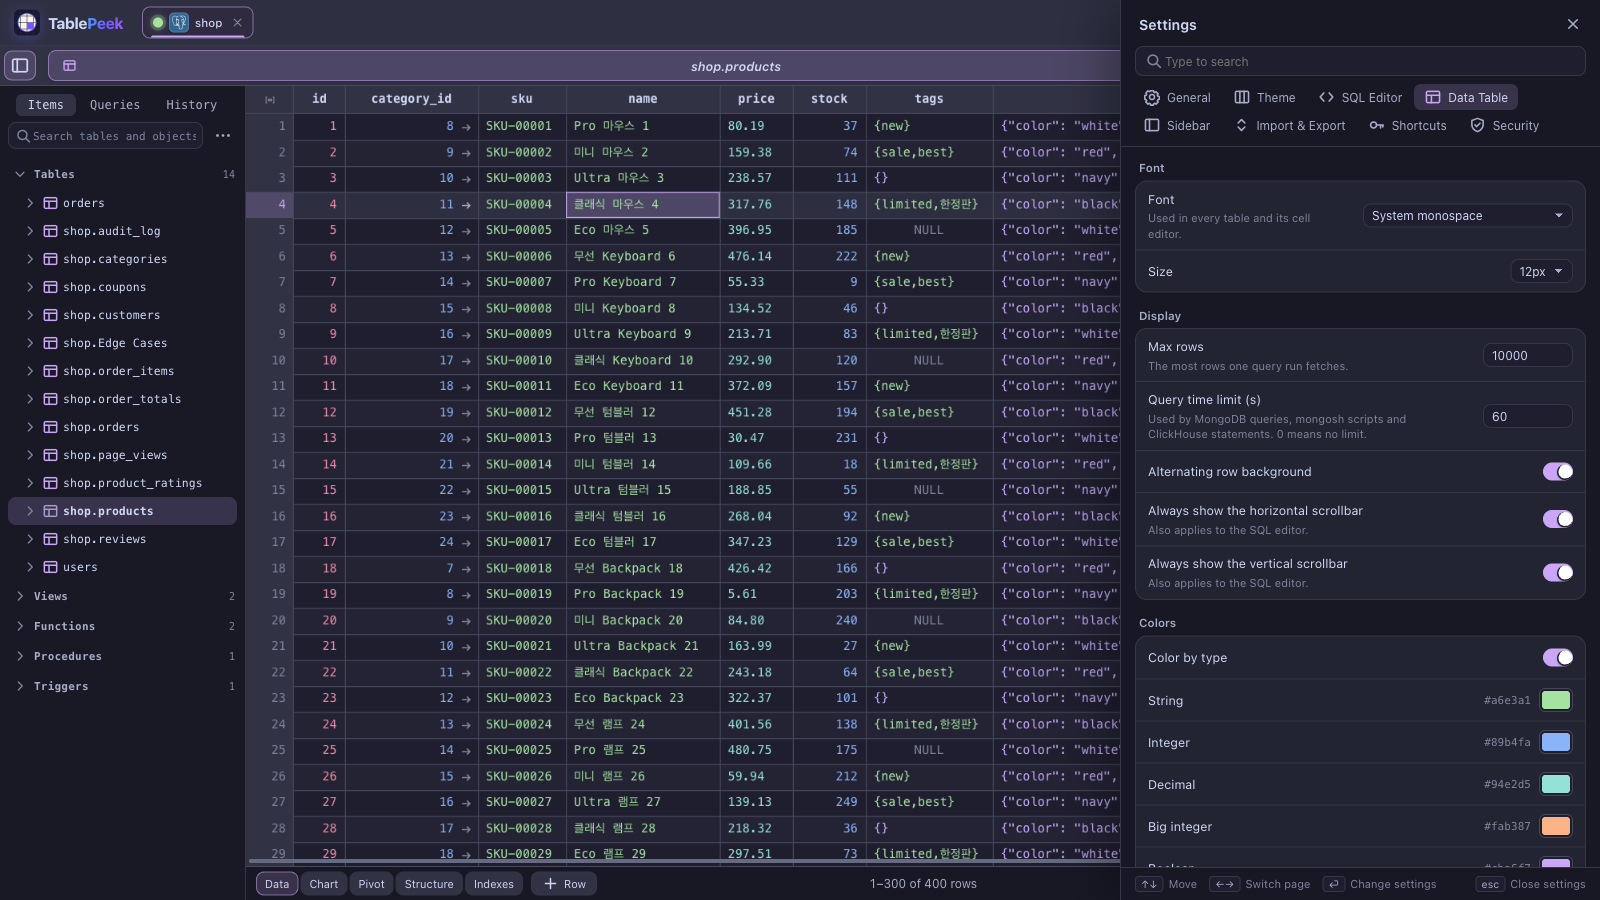
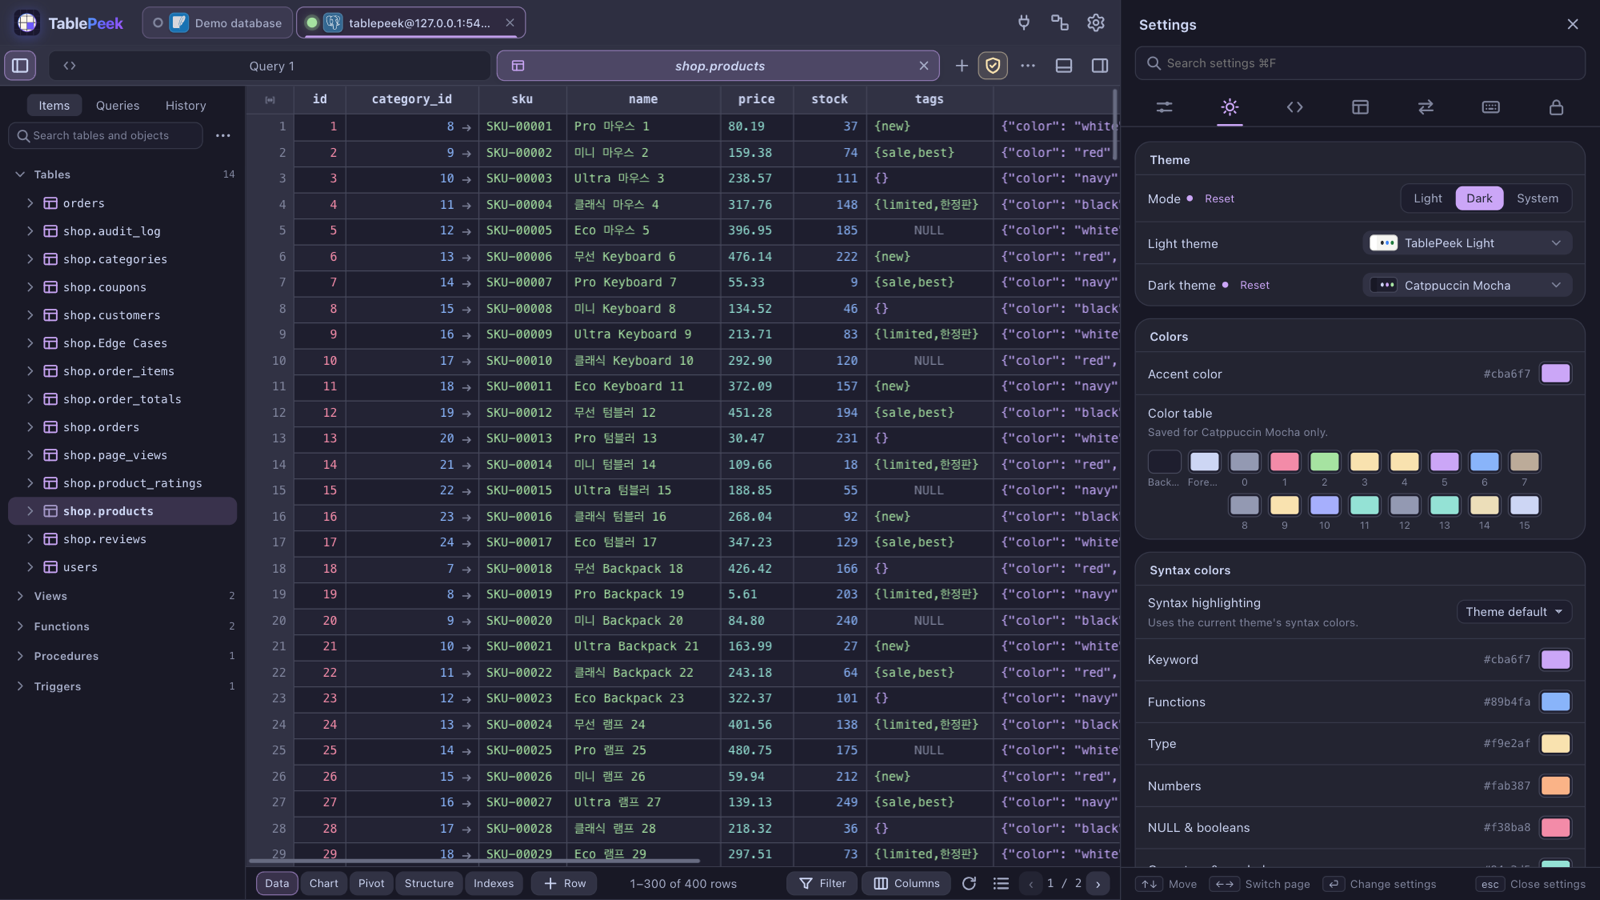
Dock the settings sheet into the layout and let Cmd+, close it
The sheet now takes its width from the app instead of floating over it; the app keeps working beside it, with its shortcuts whenever focus is outside the sheet, and a click on the app no longer closes it. Cmd+, toggles the sheet from anywhere unless a dialog sits over it. docs/images/settings.png is retaken on the Appearance page.

diff --git a/web/src/components/SettingsSheet.tsx b/web/src/components/SettingsSheet.tsx
@@ -1198,6 +1198,19 @@ export function SettingsSheet({ settings, onChange, onLock, onClose }: SettingsS
 
   const terms = query.toLowerCase().split(/\s+/).filter(Boolean);
   const sheetWidth = clampSheet(width ?? SHEET_DEFAULT);
+  // Docked, not floating: the app gives up the sheet's width (styles.css,
+  // html.settings-docked) and keeps working beside it.
+  useLayoutEffect(() => {
+    document.documentElement.style.setProperty("--settings-dock", `${sheetWidth}px`);
+  }, [sheetWidth]);
+  useLayoutEffect(() => {
+    const root = document.documentElement;
+    root.classList.add("settings-docked");
+    return () => {
+      root.classList.remove("settings-docked");
+      root.style.removeProperty("--settings-dock");
+    };
+  }, []);
   // Pages whose name is searched for: offered first, ⏎ opens one.
   const pageHits = terms.length === 0 ? [] : PAGES.filter((item) => {
     const name = bothLanguages(item.label).toLowerCase();
@@ -1213,13 +1226,10 @@ export function SettingsSheet({ settings, onChange, onLock, onClose }: SettingsS
 
   return (
     <>
-      {/* The app stays in sight beside the sheet; a click on it closes the sheet. */}
-      <div className="settings-scrim" onPointerDown={onClose} />
       <div
         ref={sheetRef}
         className="settings-sheet"
         role="dialog"
-        aria-modal="true"
         aria-label={t("설정")}
         tabIndex={-1}
         style={{ width: sheetWidth }}

diff --git a/web/src/App.tsx b/web/src/App.tsx
@@ -5498,7 +5498,9 @@ export default function App() {
         reviewPromptRef.current !== null ||
         dumpTabRef.current !== null ||
         jobsOpenRef.current ||
-        settingsOpenRef.current ||
+        // The docked settings sheet holds the keys only while focus is in it;
+        // the app beside it keeps its shortcuts.
+        (settingsOpenRef.current && document.activeElement?.closest(".settings-sheet") != null) ||
         activityOpenRef.current ||
         metricsOpenRef.current ||
         paletteOpenRef.current ||
@@ -5553,6 +5555,19 @@ export default function App() {
       }
       const action = actionForEvent(event, settingsRef.current.keymap);
       if (action === null) {
+        return;
+      }
+      // ⌘, opens the settings sheet and closes it again, wherever focus is,
+      // unless a dialog sits over it.
+      if (
+        action === "openSettings" &&
+        settingsOpenRef.current &&
+        !event.isComposing &&
+        document.querySelector(".modal-backdrop:not(.motion-ghost, .motion-ghost *)") === null
+      ) {
+        event.preventDefault();
+        event.stopPropagation();
+        setSettingsOpen(false);
         return;
       }
       // ⌥ types characters on macOS (⌥T → †); text fields keep them. The SQL

diff --git a/web/src/styles.css b/web/src/styles.css
@@ -4610,14 +4610,12 @@ body.col-resizing * {
   color: var(--accent);
 }
 
-/* Settings: a sheet docked to the right edge at full height, the app in
-   sight beside it (see SettingsSheet): the search, the page tabs, then the
-   page's groups of rows, each a name (and a note) and its control, and the
-   keys along its foot. */
-.settings-scrim {
-  position: fixed;
-  inset: 0;
-  z-index: 44;
+/* Settings: a sheet docked to the right edge at full height. It takes its
+   width from the app, which keeps working beside it (see SettingsSheet):
+   the search, the page tabs, then the page's groups of rows, each a name
+   (and a note) and its control, and the keys along its foot. */
+html.settings-docked .app {
+  padding-right: var(--settings-dock, 0px);
 }
 
 .settings-sheet {
@@ -4631,7 +4629,6 @@ body.col-resizing * {
   max-width: calc(100vw - 240px);
   border-left: 1px solid var(--line-soft);
   background: var(--panel);
-  box-shadow: -18px 0 48px rgba(0, 0, 0, 0.28);
   outline: none;
   animation: tablepeek-sheet-in var(--motion-spring) var(--ease-spring) backwards;
 }

diff --git a/CHANGELOG.md b/CHANGELOG.md
@@ -32,7 +32,7 @@ All notable changes to TablePeek are recorded here. The format follows [Keep a C
 - **Every font and color setting is on Settings › Appearance**, grouped into cards: Theme (mode, light and dark theme), Colors (accent, color table), Syntax colors (preset and colors, with the editor preview), Value colors (type colors and their colors), Fonts (interface, code, editor and table fonts with their sizes), Material and Display. The SQL Editor page keeps keyword case and the Data Table page the maximum rows and query time limit; search still finds every setting by its old words.
 - The README is now a short page with install steps and screenshots. The details moved to [docs/INSTALL.md](docs/INSTALL.md) (downloads, first launch, updating), [docs/GUIDE.md](docs/GUIDE.md) (databases, features, MCP, security), and [docs/DEVELOPMENT.md](docs/DEVELOPMENT.md) (architecture, building, tests).
 - The JSON tree in Quick Look drops the type glyphs (Aa, #, ✓, ∅, {}, []) in front of every key: values keep their type colors, objects and arrays show a muted member count after the key (`address {3}`, `tags [3]`), array positions are muted, and hovering a row shows its type.
-- **Settings is a keyboard-first sheet docked to the right edge**, with the app live beside it: ↑↓ move between settings, ←→ switch pages, ⏎ or Space flips a switch, steps a choice or opens a menu, typing searches every page, ⌫ resets a setting marked as changed from its default, and Esc steps back (out of a field, clears the search, then closes). Tab stays in the sheet, and the sheet's edge resizes it by drag or ←→; its width is remembered.
+- **Settings is a keyboard-first sheet docked to the right edge**: it takes its width from the app, which keeps working beside it (its shortcuts too, while focus is outside the sheet), rather than floating over it. ⌘, opens and closes it from anywhere. ↑↓ move between settings, ←→ switch pages, ⏎ or Space flips a switch, steps a choice or opens a menu, typing searches every page, ⌫ resets a setting marked as changed from its default, and Esc steps back (out of a field, clears the search, then closes). Tab stays in the sheet, and the sheet's edge resizes it by drag or ←→; its width is remembered.
 - **Settings are laid out like Tern's.** The pages are General (language, updates, activity-log retention), Appearance, SQL Editor, Data Table, Import & Export, Shortcuts and Security; the Theme and Sidebar pages are gone. Appearance holds the theme, accent, color table, fonts, material and display settings. **Theme**: Mode is Light, Dark or System, with a light theme and a dark theme picked separately; System follows the operating system's mode live (the desktop window too, through a new `system` field in `PUT /api/window`). Each theme row opens a compact searchable picker with swatches (type to filter, ↑↓, ⏎, Esc) that also holds Tern's themes, the imported ones and "Import Tern theme…", in place of the inline gallery. The accent follows the theme shown unless one is picked. **Fonts** cascade as Tern's do: Font and Font size for the interface (the sidebars follow it), Code font for monospaced text (SQL editor, data table, code labels) with a size that follows Font size, and an Editor font and a Table font that follow the code font unless set apart; one searchable font picker serves them all. **Search**: "Search settings ⌘F" finds rows on every page in Korean or English, lists them under a small page-name eyebrow with the match highlighted, offers a page by its name, and says "Try a shorter word, or the name of a page." when nothing matches. Notes under settings are shorter. Earlier settings move over on first start: the saved theme becomes the theme of its mode (System if it was the default), an accent that was the theme's own follows the theme, the SQL editor's font and size become the code font's, and the data table's and sidebar's become the table font and the interface font only where they differed.
 - The connection home is pared down. With nothing saved it shows the wordmark, one line, three buttons (New connection…, Open SQLite file, Import connections…) and a "Look around with demo data" link; the keychain note, the driver chips, the "what you'll need" box, the tech line, and the `make run DEMO=1` hint are gone. With connections, the search bar carries a New connection button and a … menu (new group, open SQLite file, import, export, database backup and restore, open demo) in place of the big backup/restore tiles.
 - Less text in Quick Look and Settings. The large JSON view's right side now matches the popover's: the picked object's or array's members as labeled field boxes (key, type, value; nested values indented as stored), drawn only as they scroll into view, long values cut with "Show all", and a picked value as one box. In both, values (and the tree's) take the data table's colors by kind (string, integer, decimal, big integer, boolean, NULL), and objects and arrays in a box are colored token by token with faint punctuation. The popover's expand button and the settings page tabs are icons with their names in tooltips (Shortcuts gets a keyboard icon), and the update check in Settings › General drops its explanation and error box for a one-line reason under the status.
